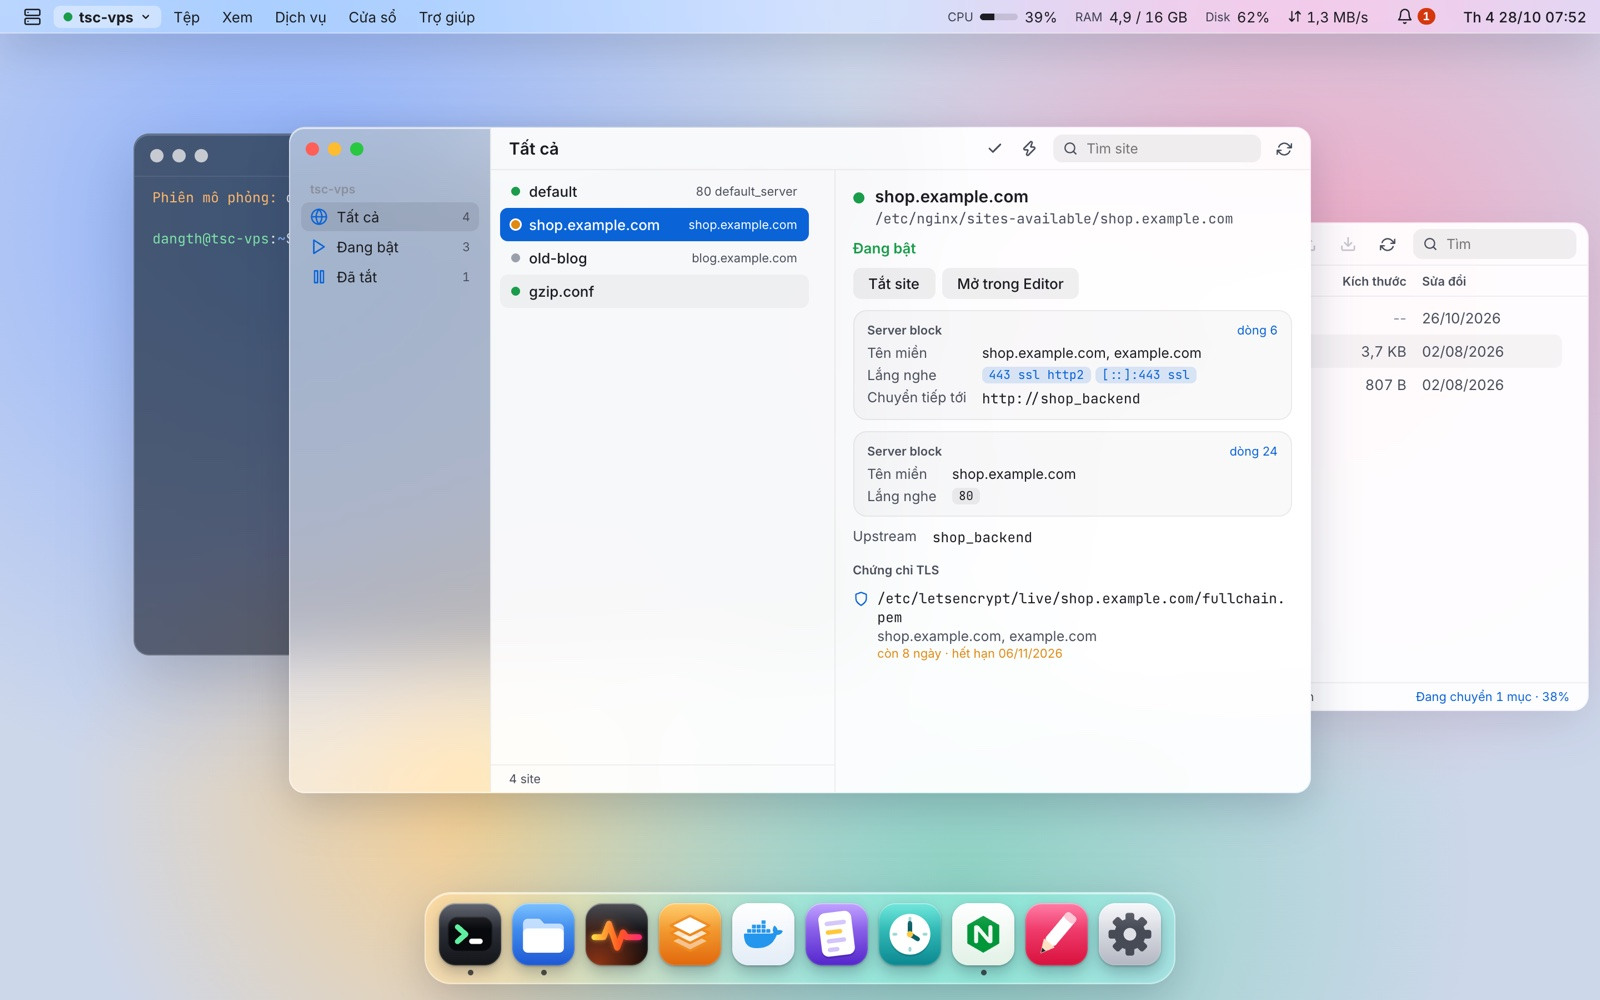
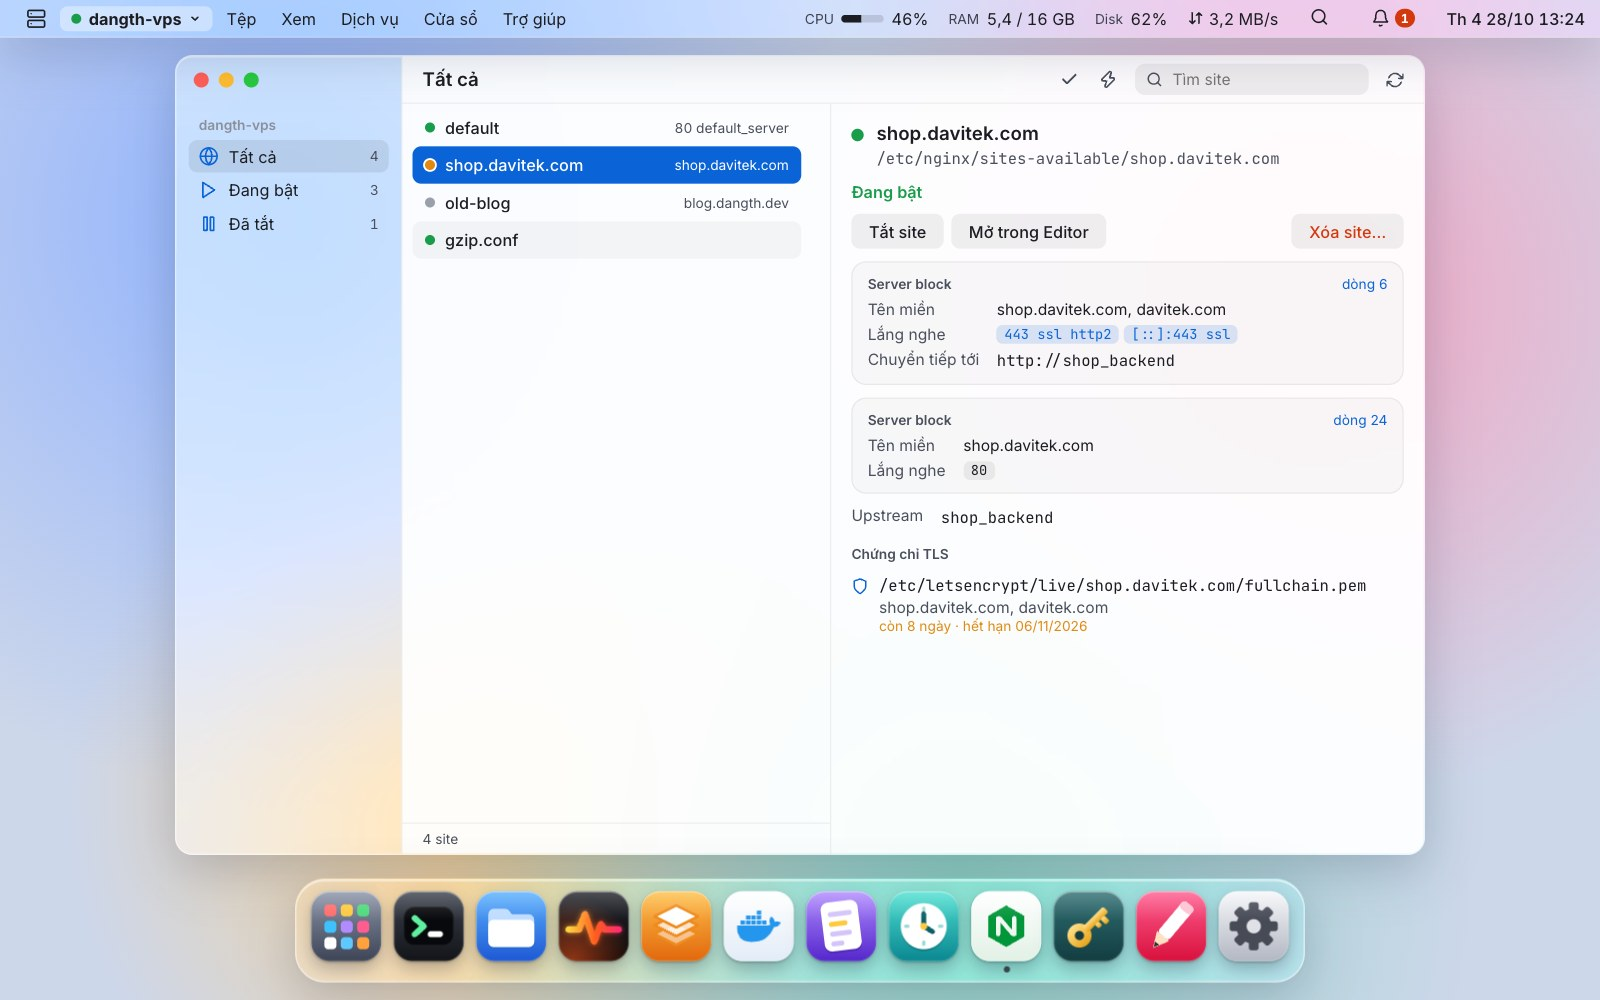
docs(repo): show the features since 1.0 in the README
Add the SSH keys app, the app lock, Launchpad and the genie, and
removing units and sites, to the feature list in English and
Vietnamese, with new screenshots. All screenshots are taken again from
the browser preview, whose demo data now uses dangth.dev and
davitek.com. The macOS install note now points to Open Anyway, as
right-click Open no longer gets past Gatekeeper on macOS 15.

diff --git a/README.vi.md b/README.vi.md
@@ -5,7 +5,7 @@
 # Davish
 
 **Một desktop cho các server Linux của bạn.**<br>
-Terminal, file, dịch vụ, Docker, log, cron và nginx qua SSH thuần, gom trong một giao diện như một hệ điều hành.<br>
+Terminal, file, dịch vụ, Docker, log, cron, nginx và khóa SSH qua SSH thuần, gom trong một giao diện như một hệ điều hành.<br>
 Không cài gì lên server.
 
 [![CI](https://github.com/2hjaito/davish/actions/workflows/ci.yml/badge.svg)](https://github.com/2hjaito/davish/actions/workflows/ci.yml)
@@ -24,6 +24,7 @@ Không cài gì lên server.
 - **Không cần agent.** Davish chỉ cần `sshd` và SFTP. Mọi thứ chạy từ máy bạn qua SSH; không chép, không cài, không để lại gì trên server.
 - **Thấy trước mọi lệnh.** Thao tác phá hủy (dừng dịch vụ, xóa file, khởi động lại container, thay crontab) hiện đúng lệnh sẽ chạy trước khi chạy. Nhật ký lệnh ghi lại mọi thứ Davish đã chạy thay bạn.
 - **Bí mật nằm trong keychain.** Mật khẩu và passphrase chỉ lưu trong keychain của hệ điều hành. Davish không bao giờ lưu hay tự gõ mật khẩu `sudo`: khi cần root, nó mở Terminal với lệnh gõ sẵn để bạn tự nhấn Enter.
+- **Tự khóa khi bạn rời máy.** Mật khẩu khóa riêng, Touch ID trên macOS; khóa khi máy ngủ dậy, sau thời gian không dùng, hoặc `⌘L`. Phiên SSH vẫn chạy sau màn khóa, nhưng không thao tác nào tới được server cho tới khi mở khóa.
 - **Nhiều server, một desktop.** Mỗi server là một workspace (`⌘1`…`⌘9`) nhớ cửa sổ riêng của nó. Kéo file để copy giữa các server.
 
 ## Tính năng
@@ -32,9 +33,10 @@ Không cài gì lên server.
 |---|---|
 | **Terminal**<br>xterm.js nhiều tab, copy/paste, vẽ bằng GPU, và prompt powerline tùy chọn được nạp vào bash lúc đăng nhập, không ghi gì lên server. | **Files**<br>Trình duyệt kiểu Finder qua SFTP: tải lên, tải xuống, kéo thả từ hệ điều hành, đổi tên, xóa, nén, và copy giữa các server qua máy bạn. |
 | **Monitor**<br>CPU từng nhân, bộ nhớ và swap, ổ đĩa, mạng theo interface, GPU NVIDIA, tiến trình. Cảnh báo RAM và ổ đĩa chỉnh được ngưỡng. | **Editor**<br>CodeMirror 6, tô màu cho nginx, YAML, JSON, shell, env và file cấu hình. Lưu atomic giữ nguyên mode và chủ file, sao lưu file trong `/etc`, cảnh báo khi file đã đổi trên server. |
-| **Services**<br>Dịch vụ systemd theo trạng thái, chi tiết và journal; khởi động, dừng, khởi động lại. | **Docker**<br>Container với CPU và RAM, log có đánh dấu stderr, inspect, start/stop/restart, cảnh báo khởi động lại liên tục. |
+| **Services**<br>Dịch vụ systemd theo trạng thái, chi tiết và journal; khởi động, dừng, khởi động lại. Xóa dịch vụ không còn dùng: unit do admin tạo thì xóa file, unit của gói (như `certbot` cũ) thì chặn hẳn cùng timer chạy nó. | **Docker**<br>Container với CPU và RAM, log có đánh dấu stderr, inspect, start/stop/restart, cảnh báo khởi động lại liên tục. |
 | **Logs**<br>Theo dõi journal của dịch vụ, một file hoặc một container. Lọc, tạm dừng, tô dòng lỗi, bấm đường dẫn file để mở trong Editor đúng dòng. | **Cron**<br>Crontab của bạn và của hệ thống, lịch nói bằng lời, lần chạy kế tiếp theo giờ server, sửa an toàn có sao lưu. |
-| **Nginx**<br>Site, server block và upstream; bật/tắt site, `nginx -t` trước mỗi lần reload, lỗi mở đúng dòng; cảnh báo chứng chỉ TLS sắp hết hạn. | **Spotlight**<br>`⌘K` để mở app, dịch vụ, container, thư mục, một `/đường/dẫn`, hoặc `> một lệnh` gõ sẵn vào Terminal. |
+| **Nginx**<br>Site, server block và upstream; bật/tắt site, `nginx -t` trước mỗi lần reload, lỗi mở đúng dòng; cảnh báo chứng chỉ TLS sắp hết hạn. Xóa site, kèm chứng chỉ Let's Encrypt nếu không site nào khác dùng. | **Spotlight & Launchpad**<br>`⌘K` (hoặc kính lúp trên menu bar) để mở app, dịch vụ, container, thư mục, một `/đường/dẫn`, hoặc `> một lệnh` gõ sẵn vào Terminal. Launchpad (`⌘⇧A`) hiện mọi app và cho ghim vào Dock. |
+| **Khóa SSH**<br>`authorized_keys` của server, đánh dấu key Davish đang đăng nhập; thêm, gỡ key có sao lưu. Tạo deploy key trên server và thử với GitHub, GitLab (kiểm tra đúng host key họ công bố). Tạo key trên máy, đưa lên server rồi chuyển sang đăng nhập bằng nó. | **Khóa app**<br>Touch ID hoặc mật khẩu riêng che mọi thứ khi bạn rời máy. Quên mật khẩu thì đặt lại, nhưng Davish xóa mật khẩu server đã lưu trước, nên đặt lại không mở được đường vào server. Cửa sổ mở, đóng, thu nhỏ về Dock bằng hiệu ứng Genie. |
 
 <table>
   <tr>
@@ -49,6 +51,18 @@ Không cài gì lên server.
     <td><img src="assets/screenshots/cron.jpg" alt="Tác vụ cron với lịch nói bằng lời"></td>
     <td><img src="assets/screenshots/spotlight.jpg" alt="Spotlight"></td>
   </tr>
+  <tr>
+    <td><img src="assets/screenshots/keys.jpg" alt="Khóa SSH: authorized_keys của server"></td>
+    <td><img src="assets/screenshots/remove.jpg" alt="Xóa site nginx cùng chứng chỉ Let's Encrypt"></td>
+  </tr>
+  <tr>
+    <td><img src="assets/screenshots/launchpad.jpg" alt="Launchpad"></td>
+    <td><img src="assets/screenshots/genie.jpg" alt="Cửa sổ chảy vào Dock với hiệu ứng Genie"></td>
+  </tr>
+  <tr>
+    <td><img src="assets/screenshots/lock.jpg" alt="Màn khóa"></td>
+    <td><img src="assets/screenshots/welcome.jpg" alt="Trang chào"></td>
+  </tr>
 </table>
 
 > Ảnh chụp dùng dữ liệu mẫu của bản xem trước trên trình duyệt.
@@ -57,7 +71,7 @@ Không cài gì lên server.
 
 Bản build sẵn cho macOS (universal), Windows và Linux nằm trong từng [release](https://github.com/2hjaito/davish/releases).
 
-- **macOS 12 trở lên.** Mở `Davish-…-macos-universal.pkg` để cài vào Applications. App chưa được ký: lần đầu, chuột phải vào file `.pkg` (và sau đó `Davish.app`) rồi chọn **Mở**.
+- **macOS 12 trở lên.** Mở `Davish-…-macos-universal.pkg` để cài vào Applications. App chưa được ký nên macOS sẽ chặn lần đầu: bấm **Done**, mở **Cài đặt hệ thống → Quyền riêng tư & Bảo mật**, bấm **Vẫn mở** ở dòng nhắc tới Davish (làm lại cho `Davish.app` nếu bị chặn). Hoặc chạy `xattr -dr com.apple.quarantine` trên file đó.
 - **Windows 10 trở lên.** Chạy `Davish-…-windows-amd64-setup.exe`; bộ cài tự cài WebView2 runtime nếu máy chưa có. SmartScreen có thể cảnh báo nhà phát hành không xác định: chọn **More info** → **Run anyway**.
 - **Linux** có GTK 3 và WebKitGTK 4.1.
 

diff --git a/README.md b/README.md
@@ -5,7 +5,7 @@
 # Davish
 
 **A desktop for your Linux servers.**<br>
-Terminal, files, services, Docker, logs, cron and nginx over plain SSH, in one place that feels like an operating system.<br>
+Terminal, files, services, Docker, logs, cron, nginx and SSH keys over plain SSH, in one place that feels like an operating system.<br>
 Nothing to install on the server.
 
 [![CI](https://github.com/2hjaito/davish/actions/workflows/ci.yml/badge.svg)](https://github.com/2hjaito/davish/actions/workflows/ci.yml)
@@ -24,6 +24,7 @@ Nothing to install on the server.
 - **Agentless.** Davish only needs `sshd` and SFTP. Everything runs from your machine over SSH; nothing is copied to, installed on or left behind on the server.
 - **You see every command.** Anything destructive (stop a service, remove a file, restart a container, replace a crontab) shows the exact command before it runs. The command log records everything Davish ran on your behalf.
 - **Secrets stay in your keychain.** Passwords and passphrases live only in the OS keychain. Davish never stores or types a `sudo` password: when root is needed, it opens a terminal with the command typed in and lets you press Enter.
+- **Locks when you step away.** A lock password of its own, Touch ID on macOS; it locks when the machine wakes, after idle time or with `⌘L`. Sessions keep running behind the lock, but nothing reaches a server until you unlock.
 - **Many servers, one desktop.** Each server is a workspace (`⌘1`…`⌘9`) that remembers its own windows. Copy files between servers by dragging them.
 
 ## Features
@@ -32,9 +33,10 @@ Nothing to install on the server.
 |---|---|
 | **Terminal**<br>xterm.js with tabs, copy/paste, GPU rendering, and an optional powerline prompt injected into bash at login, with nothing written on the server. | **Files**<br>Finder-style browser over SFTP: upload, download, drag and drop from your OS, rename, delete, compress, and copy between servers through your machine. |
 | **Monitor**<br>CPU per core, memory and swap, disks, network per interface, NVIDIA GPUs, processes. RAM and disk alerts you can tune. | **Editor**<br>CodeMirror 6 with highlighting for nginx, YAML, JSON, shell, env and config files. Atomic saves that keep mode and owner, backups under `/etc`, and a warning if the file changed on the server. |
-| **Services**<br>systemd units by state, their status and journal; start, stop and restart. | **Docker**<br>Containers with live CPU and memory, logs with stderr marked, inspect, start/stop/restart, restart-loop alerts. |
+| **Services**<br>systemd units by state, their status and journal; start, stop and restart. Remove a unit you no longer use: an admin's unit is deleted, a package's (such as an old `certbot`) is masked with the timer that runs it. | **Docker**<br>Containers with live CPU and memory, logs with stderr marked, inspect, start/stop/restart, restart-loop alerts. |
 | **Logs**<br>Follow a unit's journal, a file or a container. Filter, pause, highlight errors, and click a file path to open it in the Editor at that line. | **Cron**<br>Your crontab and the system ones, schedules in plain words, next runs in the server's time zone, safe edits with a backup. |
-| **Nginx**<br>Sites, server blocks and upstreams; turn sites on or off, `nginx -t` before every reload, errors that open at the right line; TLS expiry alerts. | **Spotlight**<br>`⌘K` to open an app, a service, a container, a folder, a `/path`, or `> a command` typed into a terminal. |
+| **Nginx**<br>Sites, server blocks and upstreams; turn sites on or off, `nginx -t` before every reload, errors that open at the right line; TLS expiry alerts. Delete a site, and its Let's Encrypt certificate if no other site uses it. | **Spotlight & Launchpad**<br>`⌘K` (or the magnifier in the menu bar) to open an app, a service, a container, a folder, a `/path`, or `> a command` typed into a terminal. Launchpad (`⌘⇧A`) shows every app and lets you pin them to the Dock. |
+| **SSH keys**<br>The server's `authorized_keys` with the key Davish logs in with marked; add or remove keys with a backup. Create a deploy key on the server and test it against GitHub or GitLab, checked against their published host key. Generate a key on your machine, put it on the server and switch to it. | **App lock**<br>Touch ID or a password of its own covers everything when you step away. Forgot the password? Resetting it removes the saved server passwords first, so it never opens a way into a server. Windows open, close and minimize into the Dock with a genie effect. |
 
 <table>
   <tr>
@@ -49,6 +51,18 @@ Nothing to install on the server.
     <td><img src="assets/screenshots/cron.jpg" alt="Cron jobs with schedules in plain words"></td>
     <td><img src="assets/screenshots/spotlight.jpg" alt="Spotlight"></td>
   </tr>
+  <tr>
+    <td><img src="assets/screenshots/keys.jpg" alt="SSH keys: the server's authorized_keys"></td>
+    <td><img src="assets/screenshots/remove.jpg" alt="Deleting an nginx site with its Let's Encrypt certificate"></td>
+  </tr>
+  <tr>
+    <td><img src="assets/screenshots/launchpad.jpg" alt="Launchpad"></td>
+    <td><img src="assets/screenshots/genie.jpg" alt="A window pouring into the Dock with the genie effect"></td>
+  </tr>
+  <tr>
+    <td><img src="assets/screenshots/lock.jpg" alt="The lock screen"></td>
+    <td><img src="assets/screenshots/welcome.jpg" alt="Welcome page"></td>
+  </tr>
 </table>
 
 > The interface is in Vietnamese. Screenshots show demo data from the browser preview.
@@ -57,7 +71,7 @@ Nothing to install on the server.
 
 Prebuilt apps for macOS (universal), Windows and Linux are attached to each [release](https://github.com/2hjaito/davish/releases).
 
-- **macOS 12 or later.** Open `Davish-…-macos-universal.pkg` to install into Applications. The app is not signed yet: the first time, right-click the `.pkg` (and later `Davish.app`) and choose **Open**.
+- **macOS 12 or later.** Open `Davish-…-macos-universal.pkg` to install into Applications. The app is not signed yet, so macOS blocks it the first time: click **Done**, open **System Settings → Privacy & Security** and click **Open Anyway** next to the line about Davish (again for `Davish.app` if it is blocked). Or run `xattr -dr com.apple.quarantine` on the file.
 - **Windows 10 or later.** Run `Davish-…-windows-amd64-setup.exe`; it installs the WebView2 runtime if it is missing. Windows SmartScreen may warn about an unknown publisher: choose **More info** → **Run anyway**.
 - **Linux** with GTK 3 and WebKitGTK 4.1.
 
